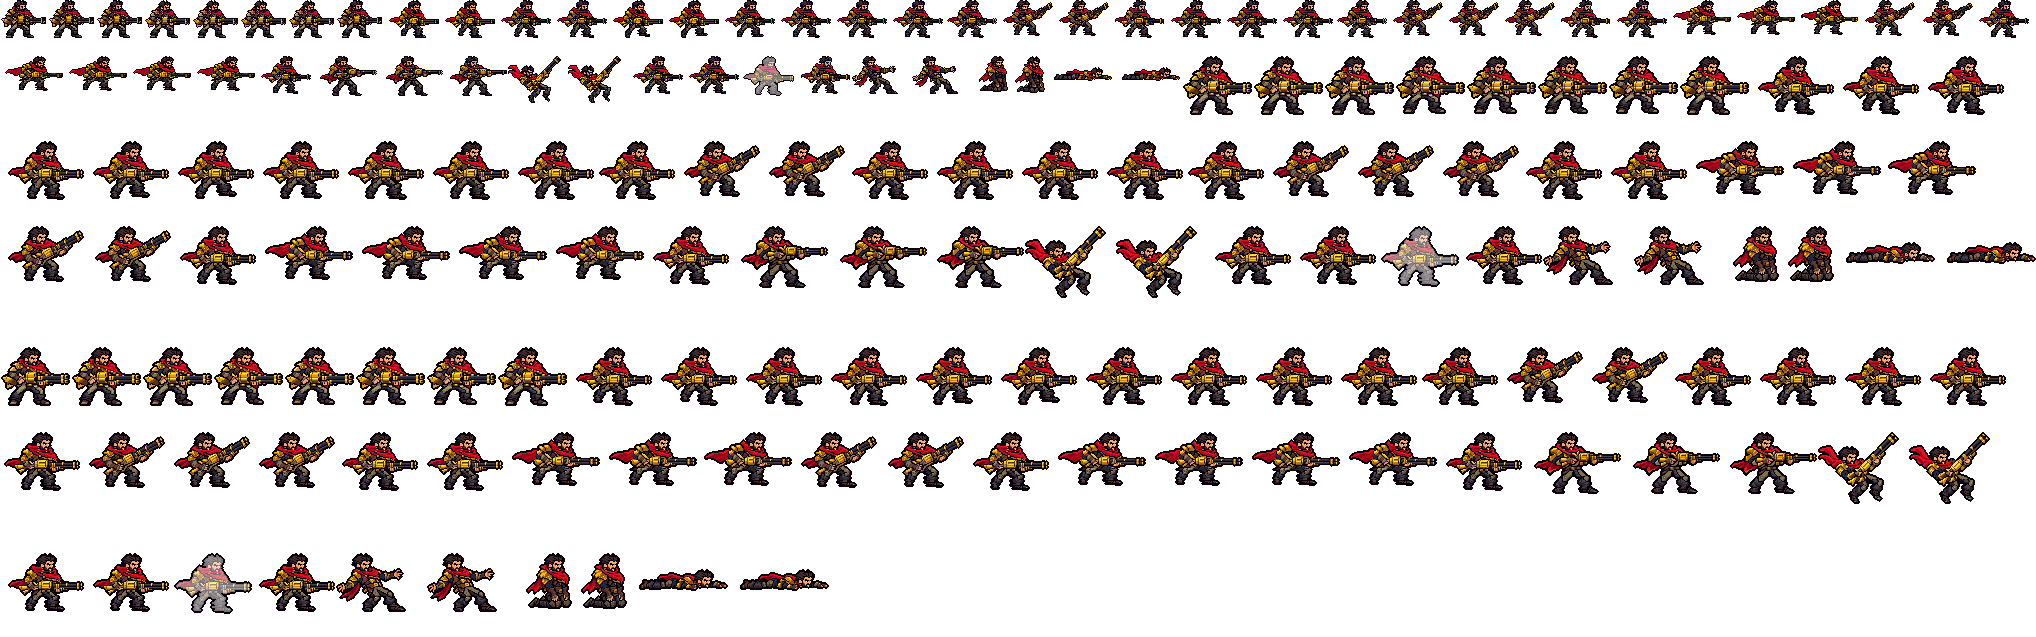
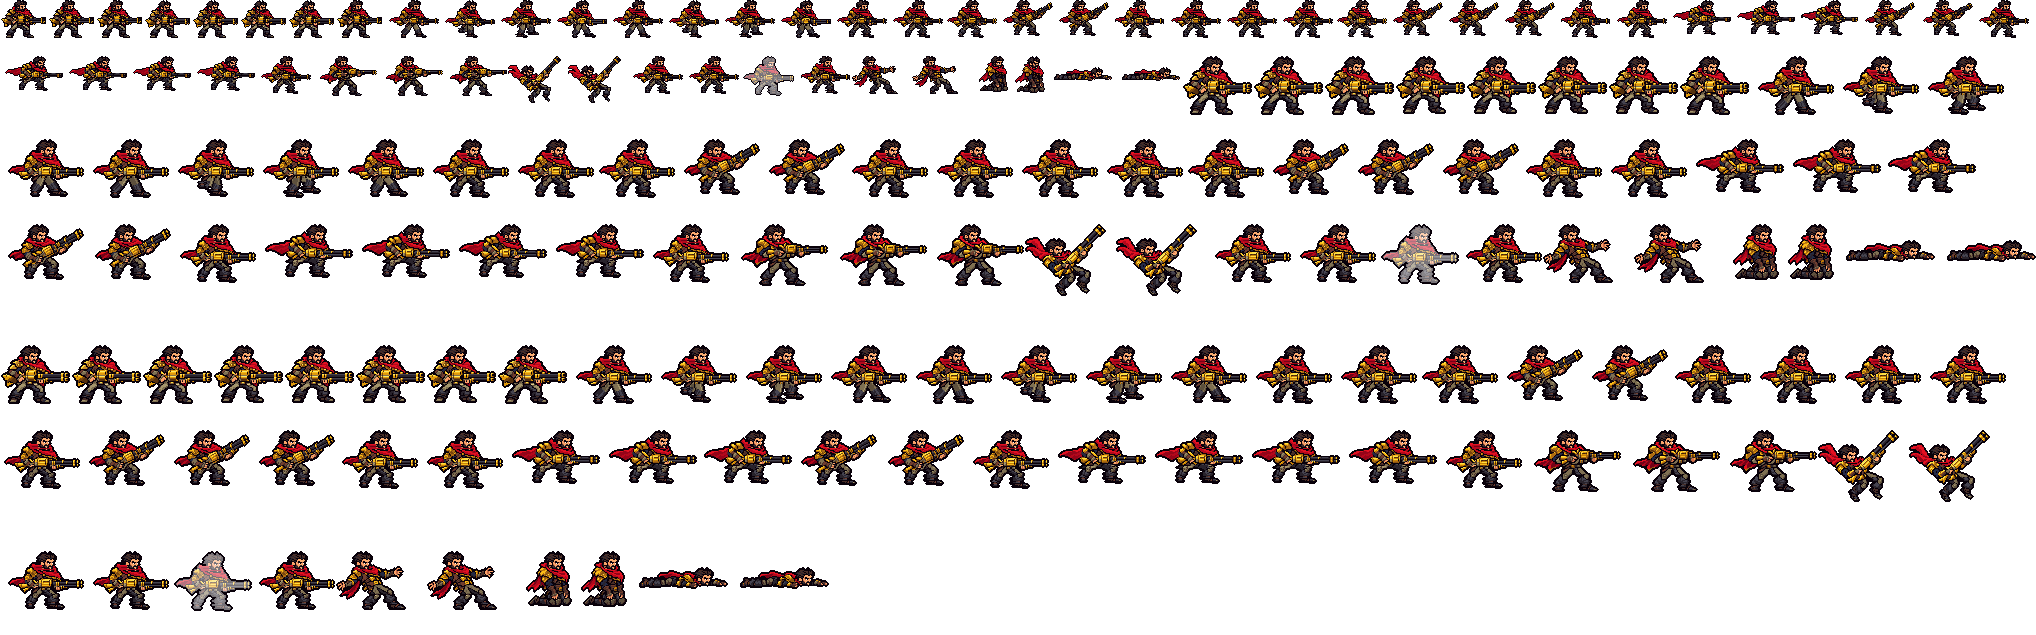
Graves run: his legs drawn (graves_legs.py) instead of Codex's - one leg's eight phases, the other four on; every knee bending forward, the two legs apart, the design's own boots
The user on Codex's run legs: knees bent backwards on the kicked-up back leg, a boot's brown on knees and
shins, the two legs run together. Hips under the pelvis (the side design's rows from 38 down drawn, its coat
flap kept), quinn_legs' bands in the design's trouser colours (no knee plate), the long side-on boot ahead /
under him and the short one pushed back or kicked up, the far thigh a shade darker; the body a row down on the
foot under him, the whole figure a row up in flight. No enclosed holes, dents or one-square cracks.

diff --git a/tools/art/graves_legs.py b/tools/art/graves_legs.py
@@ -1,0 +1,184 @@
+#!/usr/bin/env python3
+"""Graves's run legs, drawn - league_caitlyn's way (tools/art/fix_caitlyn_run_v2.py: ONE leg in eight phases, the other
+leg the same phases four on) with quinn_legs' bands (tools/art/quinn_legs.py: a thigh band and a shin band of constant
+width coloured across by the trousers' own colours, an outline ring round them, the far leg drawn first and the near
+one with its ring over it) and the side design's own boots stamped whole and flat (never turned, slid or resized).
+
+    python tools/art/graves_legs.py --check DIR      # the eight run frames' legs at 12x + one leg's phases + a GIF
+
+The user, 2026-10-20, on Codex's redrawn run legs (tools/art/import_graves_run.py): 「还是有点变形吧」「膝盖那里 你看不出吗」
+「你自己利用工具修吧」「这里没露出空档啊」「这里还是有点不对吧」 - Codex bent the kicked-up back leg backwards at the
+knee (the thigh going back, the shin hanging down under it), put a boot's brown on knees and shins and ran the two
+legs together into one block. Here every frame's legs follow one rule:
+  * both hips under the pelvis (the side design's rows from CUT down are drawn - its own legs stand apart in a stride,
+    so its thigh tops could never cross), each phase's thigh top a little forward or back as the leg swings (PHASES:
+    the hip's column), so the stride opens as wide as the design's own stance;
+  * every knee bends forward (the shin never points further forward than its thigh; the kicked-up heel goes back and
+    up), the thigh 7 squares wide in the design's khaki with its light front edge, the shin 8 wide in its dark greys,
+    no knee plate (on legs as short and wide as his a pad and a round knee read as a lump);
+  * the boots are the design's: its long side-on boot (toe forward) on a foot ahead of or under him, its short boot
+    (the far foot seen from behind) on a foot pushed back or kicked up;
+  * a planted foot stays on the ground (its knee takes the body's bob), the far leg's thigh a shade darker so the two
+    thighs part where they cross, the body a row down as his weight comes onto the foot under him (BOB) and the whole
+    figure a row up while both feet are off the ground (LIFT).
+"""
+import argparse
+import math
+import os
+import sys
+
+import numpy as np
+from PIL import Image, ImageDraw
+
+HERE = os.path.dirname(os.path.abspath(__file__))
+sys.path.insert(0, HERE)
+import quinn_legs as QL  # noqa: E402
+
+ROOT = os.path.dirname(os.path.dirname(HERE))
+SRC = os.path.join(ROOT, "assets", "source", "graves")
+INK = (9, 1, 10)
+K_D, K_M, K_L = 0x5d503d, 0x7f7052, 0xa5966c       # the trousers' khaki: dark, middle, light
+G_D, G_L = 0x29232c, 0x454350                       # the trouser legs' dark grey under the knee: dark, light
+# the bands' colours across (back edge to front edge, a leg pointing down)
+THIGH_ROW = [K_D, K_M, K_M, K_M, K_M, K_L, K_D]
+SHIN_ROW = [G_D, G_D, G_L, G_D, G_L, G_L, G_D, G_D]
+FAR_DARKER = {K_L: K_M, K_M: K_D}                   # the far thigh a shade darker (its shin and boot as they are)
+# the side design's boots (rows, cols, the outline included) and their ankles (the middle of the trouser leg's bottom)
+BOOTS = {"long": ((50, 56), (36, 54), (43.5, 50.0)),     # the near boot, side-on, toe forward
+         "short": ((50, 55), (15, 25), (21.5, 50.0))}    # the far boot, seen from behind
+CUT = 38                       # the side design's rows from here down are the legs (the pelvis ends on row 37) ...
+FLAP = [(38, 23, 28), (39, 23, 28), (40, 23, 28), (41, 24, 24)]   # ... but the coat's brown flap (row, cols) stays
+HIP_Y = 38.0                   # the hips' row: the thighs' tops under the pelvis
+GROUND_ANKLE = 50.0            # a planted foot's ankle row (its boot's sole on the design's ground)
+# one leg's eight phases: (the hip's column, the knee from the hip, the ankle from the hip, the boot); the near leg plays
+# phase k in frame k, the far leg phase k + 4
+PHASES = [
+    (38.5, (3.5, 7.0), (5.5, 12.0), "long"),     # 1 just landed ahead of him
+    (36.0, (0.5, 7.5), (0.0, 12.0), "long"),     # 2 under him, his weight on it
+    (33.0, (-2.0, 7.5), (-5.5, 12.0), "long"),   # 3 sliding back under him
+    (32.5, (-3.0, 7.0), (-6.5, 12.0), "short"),  # 4 pushing off behind
+    (30.5, (-4.0, 6.5), (-9.5, 12.5), "short"),  # 5 the toe leaving the ground behind
+    (32.0, (-2.5, 7.0), (-8.5, 4.0), "short"),   # 6 the heel kicked up behind (high enough to leave no pocket of
+                                                 #   ground shut in over the planted foot's heel)
+    (39.0, (7.0, 3.0), (5.0, 8.0), "long"),      # 7 swung through, the knee up in front, the shin tucked back
+                                                 #   under it (its boot clear of the planted leg: a gap, no crack)
+    (37.5, (5.0, 6.0), (8.5, 11.0), "long"),     # 8 reaching forward to land
+]
+PLANTED = [True, True, True, True, True, False, False, False]
+BOB = [0, 1, 0, 0, 0, 1, 0, 0]      # the body (and hips) a row down: his weight on the foot under him
+LIFT = [0, 0, 0, 1, 0, 0, 0, 1]     # both feet off the ground: the whole figure a row up
+SLIT_ROWS = 5                       # rows under the hips where a one-square slit between the thighs is closed
+
+
+def rgb(h):
+    return np.array(((h >> 16) & 255, (h >> 8) & 255, h & 255, 255), np.uint8)
+
+
+def boot(side, name):
+    """(offsets of the boot's squares from its ankle, their colours) cut from the side design."""
+    (r0, r1), (c0, c1), (ax, ay) = BOOTS[name]
+    ys, xs = np.nonzero(side[r0:r1 + 1, c0:c1 + 1, 3] > 0)
+    ys, xs = ys + r0, xs + c0
+    return np.stack([xs + 0.5 - ax, ys + 0.5 - ay], 1), side[ys, xs]
+
+
+def part(side, name, far):
+    """quinn_legs' part: the bands' colours (the far thigh darker), the boot, no knee plate."""
+    thigh = [rgb(FAR_DARKER.get(h, h) if far else h) for h in THIGH_ROW]
+    return dict(thigh=np.array(thigh), shin=np.array([rgb(h) for h in SHIN_ROW]), boot=boot(side, name), plate=[])
+
+
+def geometry(k, bob=0):
+    """Phase k's (hip, knee, ankle) in design squares with the body `bob` rows down: a planted foot stays where it
+    stands (the knee solved at the phase's own lengths), a lifted one moves with the hips."""
+    hx, (kx, ky), (ax, ay), _ = PHASES[k]
+    H = np.array((hx, HIP_Y + bob))
+    if PLANTED[k] and bob:
+        K, A = QL.reach_to(H, (hx + ax, HIP_Y + ay), math.hypot(kx, ky), math.hypot(ax - kx, ay - ky))
+        return H, K, A
+    return H, H + (kx, ky), H + (ax, ay)
+
+
+def body(side):
+    """The side design without its legs: the rows from CUT down cleared but the coat's brown flap."""
+    b = side.copy()
+    keep = np.zeros(side.shape[:2], bool)
+    for y, c0, c1 in FLAP:
+        keep[y, c0:c1 + 1] = True
+    cut = np.zeros(side.shape[:2], bool)
+    cut[CUT:] = True
+    b[cut & ~keep] = 0
+    return b
+
+
+def draw(can, side, k, at):
+    """Frame k's two legs on can: the near leg at phase k over the far leg at phase k + 4, the design's (0, 0) at canvas
+    square `at` (the frame's LIFT already in it; the hips take BOB themselves)."""
+    QL.INK = INK
+    QL.KNEE_R = 0.0
+    o = np.asarray(at, float)
+    geo, parts = {}, {}
+    for key, ph in (("near", k), ("far", (k + 4) % 8)):
+        H, K, A = geometry(ph, BOB[k])
+        geo[key] = (H + o, K + o, A + o, 0)
+        parts[key] = part(side, PHASES[ph][3], key == "far")
+    QL.draw_legs(can, geo, parts)
+    # the top of the gap between the thighs: where the two thighs' outlines leave a one-square slit of ground under
+    # the pelvis (a dotted crack, gap-check), the slit takes the outline - the gap opens below it
+    y0 = int(round(at[1] + HIP_Y))
+    for y in range(y0, y0 + SLIT_ROWS):
+        row = can[y, :, 3] > 0
+        for x in range(1, can.shape[1] - 1):
+            if not row[x] and row[x - 1] and row[x + 1]:
+                can[y, x] = (*INK, 255)
+
+
+def frame(side, k, pad=(15, 6)):
+    """Run frame k (0-7) on its own canvas: the legs, the body over them (BOB rows down), all LIFT rows up."""
+    px, py = pad
+    can = np.zeros((side.shape[0] + 2 * py, side.shape[1] + 2 * px, 4), np.uint8)
+    at = (px, py - LIFT[k])
+    draw(can, side, k, at)
+    b = body(side)
+    m = b[..., 3] > 0
+    y0 = py - LIFT[k] + BOB[k]
+    sub = can[y0:y0 + side.shape[0], px:px + side.shape[1]]
+    sub[m] = b[m]
+    return can
+
+
+def main():
+    ap = argparse.ArgumentParser()
+    ap.add_argument("--check", required=True)
+    a = ap.parse_args()
+    os.makedirs(a.check, exist_ok=True)
+    side = np.asarray(Image.open(os.path.join(SRC, "hd", "side.png")).convert("RGBA")).copy()
+    frs = [frame(side, k) for k in range(8)]
+    z = 12
+    tiles = []
+    for k, t in enumerate(frs):
+        c = t[34 + 6:58 + 6, 12 + 15:62 + 15]
+        bg = np.zeros(c.shape, np.uint8)
+        bg[...] = (200, 205, 195, 255)
+        m = c[..., 3] > 0
+        bg[m] = c[m]
+        im = Image.fromarray(np.repeat(np.repeat(bg, z, 0), z, 1)).convert("RGB")
+        ImageDraw.Draw(im).text((4, 4), str(k + 1), fill=(0, 0, 255))
+        tiles.append(im)
+    w, h = tiles[0].size
+    sh = Image.new("RGB", (2 * (w + 8), 4 * (h + 8)), (255, 255, 255))
+    for i, im in enumerate(tiles):
+        sh.paste(im, ((i % 2) * (w + 8), (i // 2) * (h + 8)))
+    sh.save(os.path.join(a.check, "graves_run_legs.png"))
+    gif = []
+    for t in frs:
+        bg = Image.new("RGBA", (t.shape[1], t.shape[0]), (96, 112, 96, 255))
+        bg.alpha_composite(Image.fromarray(t))
+        gif.append(bg.convert("RGB").resize((t.shape[1] * 5, t.shape[0] * 5), Image.NEAREST))
+    gif[0].save(os.path.join(a.check, "graves_run_legs.gif"), save_all=True, append_images=gif[1:], duration=115,
+                loop=0)
+    print("written", a.check)
+
+
+if __name__ == "__main__":
+    main()

diff --git a/tools/art/rig_graves.py b/tools/art/rig_graves.py
@@ -14,9 +14,10 @@ straight: pack_graves_poses.py / design_graves_poses.py).
 Parts of the side design: the legs under the belt (LEG_BAND: the back leg to LEG_SPLIT, the front leg past it); the rest
 is the body (head, scarf, pauldron, torso, arms and the shotgun with both hands on it - the gun's golds and steel are
 mixed square by square with the hands, the sleeves and the trousers' top, so it never moves apart from the body).
-The walk is league_nautilus's / league_braum's approved walk (the heavy heroes' rule, memory run-legs-caitlyn-way: Galio's
-final ruling): the design's own legs cut under the belt, one lifted per frame by losing its top rows and set a little
-forward, the body floating a row; no part turned, sheared or redrawn.
+The run (the user, 2026-10-20: 「男枪应该是跑步吧？而且要确保跑步时腿部不变形」, then on Codex's leg redraw 「膝盖那里 你看不出
+吗」「你自己利用工具修吧」): his legs drawn under the side design's pelvis - one leg's eight phases, the other four on
+(tools/art/graves_legs.py: quinn_legs' bands in the design's trouser colours, the design's own boots, every knee bending
+forward, the two legs apart).
 """
 import argparse
 import os
@@ -28,6 +29,7 @@ from scipy import ndimage
 
 HERE = os.path.dirname(os.path.abspath(__file__))
 sys.path.insert(0, HERE)
+import graves_legs as GL  # noqa: E402
 import ppu_rig as R  # noqa: E402
 from rig_wukong import CutDesign as _Cut, P, pad, sheet  # noqa: E402
 
@@ -101,6 +103,7 @@ class Form:
         self.rig = R.Rig(D, pad=rig_pad)
         self.L = {k: pad(D.layer(k)) for k in D.order}
         self.idle = self.placed(load("idle.png"), IDLE_STAND)
+        self.RUN_BODY = pad(GL.body(D.d))          # the side design above its legs (graves_legs.CUT), the coat's flap kept
 
     def placed(self, d, stand):
         """Another design in a padded layer of the side design's size, standing on the same point and ground."""
@@ -139,14 +142,17 @@ class Form:
         lay[y0:y1, x0:x1] = d[y0 - top:y1 - top, x0 - left:x1 - left]
         return R.compose(self.rig, [(lay, dict(dx=whole[0], dy=whole[1]))])
 
-    def run_frame(self, k):
-        """Codex's run frame k (hd/run_<k>.png: the design's upper body over its legs, set on the ground) where the side
-        design stands."""
-        d = load(f"run_{k}.png")
-        lay = np.zeros((self.D.H + 2 * P, self.D.W + 2 * P, 4), np.uint8)
-        y0, x0 = P - RUN_PAD, P - RUN_PAD
-        lay[y0:y0 + d.shape[0], x0:x0 + d.shape[1]] = d
-        return R.compose(self.rig, [(lay, {})])
+    def run(self, k):
+        """Run frame k (0-7): his two legs drawn (graves_legs.draw: the near leg at phase k over the far one at k + 4),
+        the body over their tops a row down while his weight comes onto the foot under him (graves_legs.BOB), the whole
+        figure a row up while both feet are off the ground (graves_legs.LIFT)."""
+        rig = self.rig
+        can = rig.canvas()
+        GL.draw(can, self.D.d, k, (rig.ox, rig.oy - GL.LIFT[k]))
+        up = R.compose(rig, [(self.RUN_BODY, dict(dy=GL.BOB[k] - GL.LIFT[k]))])
+        m = up[..., 3] > 0
+        can[m] = up[m]
+        return close_cracks(can, self.D.outline, most=3)    # a square of ground shut in by the flap and a thigh
 
     def lying(self, name, dx=0):
         """A pose lying on the ground (lie): its lowest row on the ground, centred dx squares from the standing point."""
@@ -208,15 +214,6 @@ MS = {"idle": [160] * 8, "run": [115] * 8,
 WALK = [((0, 0, 2), (0, 0, 0), 1), ((2, 0, 3), (0, 0, 0), 1), ((2, 0, 1), (0, 0, 0), 0), ((2, 0, 0), (0, 0, 0), 0),
         ((0, 0, 0), (0, 0, 2), 1), ((0, 0, 0), (2, 0, 3), 1), ((0, 0, 0), (2, 0, 1), 0), ((0, 0, 0), (2, 0, 0), 0)]
 HOP = 6                        # R's hop: rows off the ground at its top
-# the run: Codex's leg redraw under the design's upper body (tools/art/import_graves_run.py -> hd/run_<n>.png). Codex drew
-# its eight frames in four kinds of pose - C a wide stride, both feet down (raws 1, 4); A the front leg planted, the
-# back one kicked up behind (2, 3, 5, 6); B the back leg planted under the hips, the front one swinging forward with the
-# knee up (7: the cross step); D the front leg reaching forward to land, the back one planted behind (8) - so a stride
-# is C A B D and the loop plays two of them (the second with the other C and A drawn): each leg lands ahead, carries
-# him under the body, is kicked up behind, swings forward past the other and lands again. The two legs are drawn alike
-# side-on (the same khaki and grey), so the second stride needs no shade swap (league_milio's raws did).
-RUN_ORDER = [1, 3, 7, 8, 4, 6, 7, 8]
-RUN_PAD = 6                    # import_graves_run.PAD
 
 
 def frames_all(F):
@@ -224,7 +221,10 @@ def frames_all(F):
     out = {}
     # idle (League's graves_idle1: a slow breath, the gun still at the hip): the 3/4 design's body sets down a row
     out["idle"] = [F.front(crouch=c) for c in (0, 0, 0, 1, 1, 1, 1, 0)]
-    out["run"] = [F.run_frame(k) for k in RUN_ORDER]
+    # run (League's graves_run, a side-on stride of eight frames): his legs drawn (graves_legs.py) - landing ahead, the
+    # weight on it, sliding back, pushing off, the toe leaving the ground, the heel kicked up, the knee up in front,
+    # reaching forward; the other leg four phases on
+    out["run"] = [F.run(k) for k in range(8)]
     # auto attack (League's graves_attack1, frame by frame 2026-10-20: the shot from the level gun at ~0 ms, the gun
     # kicked up about 30 degrees by ~190 ms and pumped, level again by ~1100 ms): aimed, the shot as frame 3 starts
     # (130 ms = tick 8: the flash at the muzzle; his whole figure kicked back two squares), the pump (Codex's tilt on the
